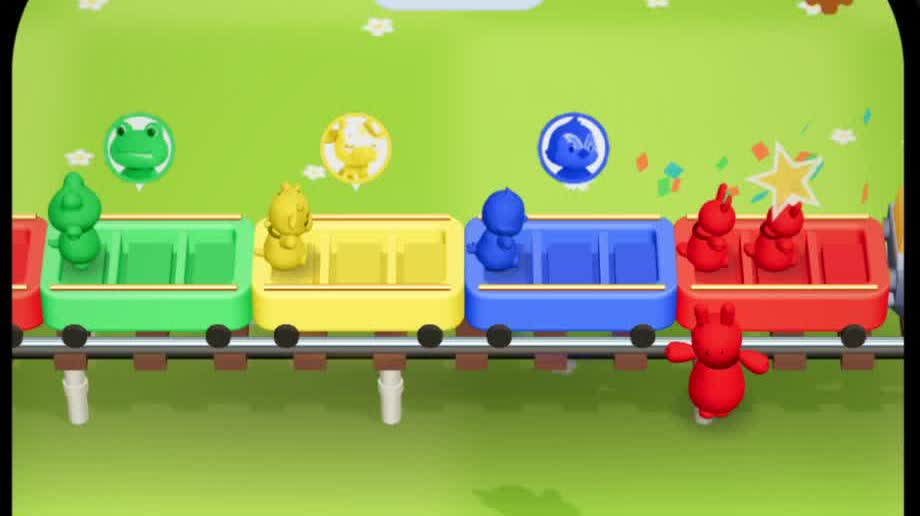
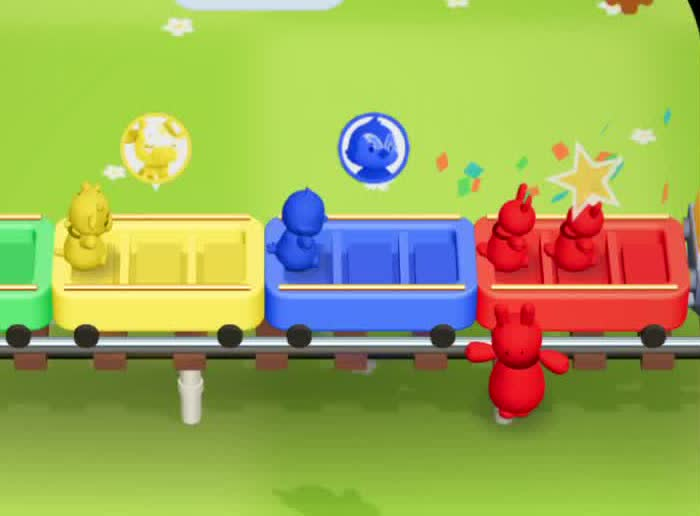
Remove em dashes site-wide, bump to 5+ years, fix Animal Park crop
- Replaced every em dash across Hero, WorkShowcase, agentic skills
  data, and project descriptions with colons, periods, semicolons,
  or parentheses depending on context (including two pre-existing
  ones in Grid Filler/Dominoes Logic).
- "4+ years" -> "5+ years" in Hero and Experience (career actually
  spans Oct 2020-present, so this is also more accurate, not just a
  bump).
- Animal Park's cover image still clipped the rightmost cart when
  cropped to the narrower mobile card aspect. Re-cropped to 3 fully-
  visible carts with safe margin on both edges, verified against both
  the mobile-card (~1.37:1) and marquee (16:9) crop windows. Color
  Water Trip and Planetation were already safe at both aspects.

diff --git a/src/data/projectsData.ts b/src/data/projectsData.ts
@@ -106,7 +106,7 @@ The game features a killstreak system similar to Call of Duty, but themed around
       "Optimized grid performance and visual feedback",
       "Implemented spin-the-wheel reward system",
     ],
-    fullDescription: `Grid Filler is a clean logic puzzle where players divide grids into perfect rectangles, ensuring each section matches its number exactly. Simple rules, but every decision matters—one misplaced tile can block the entire board.
+    fullDescription: `Grid Filler is a clean logic puzzle where players divide grids into perfect rectangles, ensuring each section matches its number exactly. Simple rules, but every decision matters: one misplaced tile can block the entire board.
 
 Features 1000+ levels, daily puzzles, competitive leaderboards, and a satisfying reward system. The game focuses on training your brain through meaningful logic rather than random guessing.`,
     storeLinks: [
@@ -190,7 +190,7 @@ The game features a relaxing beach theme with smooth animations and cheerful vis
       "Integrated comprehensive analytics for player behavior tracking",
       "Maintained and updated the live title",
     ],
-    fullDescription: `Dominoes Logic is a clean number puzzle where players place domino tiles to match numbers and clear the board. Every move matters—think ahead to find smooth, elegant solutions.
+    fullDescription: `Dominoes Logic is a clean number puzzle where players place domino tiles to match numbers and clear the board. Every move matters: think ahead to find smooth, elegant solutions.
 
 Each level challenges you to read the grid, plan your moves, and fit the right tiles together. The game features a minimal design focused on satisfying puzzle-solving.`,
     storeLinks: [
@@ -312,7 +312,7 @@ Monster Mayhem is a cooperative PVE game where players fight hordes of zombies w
     title: "Animal Park",
     subtitle: "H5 Prototype → Live on Google Play",
     description:
-      "A color-sorting crowd puzzle — guide animal visitors onto matching train carts before the waiting carousel jams. Prototyped solo with the H5 Game Builder and Level Lab agent skills, then shipped to Google Play.",
+      "A color-sorting crowd puzzle: guide animal visitors onto matching train carts before the waiting carousel jams. Prototyped solo with the H5 Game Builder and Level Lab agent skills, then shipped to Google Play.",
     image: animalParkCover,
     tags: ["H5 Game Builder", "Level Lab", "Prototype", "Puzzle", "Published"],
     highlights: [
@@ -322,14 +322,14 @@ Monster Mayhem is a cooperative PVE game where players fight hordes of zombies w
       "Solo art, music & gameplay",
     ],
     myRole: [
-      "Designed, built, and shipped the entire game solo — every line of gameplay, all art, and all audio",
+      "Designed, built, and shipped the entire game solo: every line of gameplay, all art, and all audio",
       "Prototyped end-to-end using my own H5 Game Builder and Level Lab agent skills",
       "Took it from a one-line prompt to a playable build in a single rapid session",
       "Tuned the difficulty curve with Level Lab and shipped it live to Google Play",
     ],
-    fullDescription: `Animal Park is a color-sorting puzzle: cute animal visitors line up at the gates waiting to board a train, but each cart only accepts its matching color. Tap the gates to move animals forward — if the right cart isn't ready, they wait on a central carousel with limited seats. Fill the carousel with nowhere left to go, and it's a jam.
+    fullDescription: `Animal Park is a color-sorting puzzle: cute animal visitors line up at the gates waiting to board a train, but each cart only accepts its matching color. Tap the gates to move animals forward. If the right cart isn't ready, they wait on a central carousel with limited seats. Fill the carousel with nowhere left to go, and it's a jam.
 
-Every part of this game — gameplay, art, music, and sound — was built solo, as a rapid prototype using the H5 Game Builder and Level Lab skills I built myself. What started as a same-day prototype went on to become a fully shipped release on Google Play.`,
+Every part of this game (gameplay, art, music, and sound) was built solo, as a rapid prototype using the H5 Game Builder and Level Lab skills I built myself. What started as a same-day prototype went on to become a fully shipped release on Google Play.`,
     storeLinks: [
       { platform: "Google Play", url: "https://play.google.com/store/apps/details?id=com.pocketspark.animalpark&hl=en" },
     ],
@@ -339,7 +339,7 @@ Every part of this game — gameplay, art, music, and sound — was built solo, 
     title: "Color Water Trip",
     subtitle: "H5 Prototype • In Development",
     description:
-      "A color-matching river puzzle — steer boats of colored passengers along a winding waterway and dock each one at its matching color before the docks run out.",
+      "A color-matching river puzzle: steer boats of colored passengers along a winding waterway and dock each one at its matching color before the docks run out.",
     image: colorWaterTripCover,
     tags: ["H5 Game Builder", "Level Lab", "Prototype", "Puzzle", "In Development"],
     highlights: [
@@ -349,21 +349,21 @@ Every part of this game — gameplay, art, music, and sound — was built solo, 
       "Solo art, music & gameplay",
     ],
     myRole: [
-      "Designed and built the entire prototype solo — gameplay, art, and audio",
+      "Designed and built the entire prototype solo: gameplay, art, and audio",
       "Prototyped with my own H5 Game Builder and Level Lab agent skills",
       "Authored the level set and difficulty ramp using Level Lab's generator",
       "Currently in active development ahead of a planned release",
     ],
-    fullDescription: `Color Water Trip sends boats of colored passengers down a winding river. Guide each boat to the dock matching its passengers' color before space runs out — misjudge the routing and the river backs up fast.
+    fullDescription: `Color Water Trip sends boats of colored passengers down a winding river. Guide each boat to the dock matching its passengers' color before space runs out. Misjudge the routing and the river backs up fast.
 
-Built solo as a rapid H5 prototype — gameplay, art, and music all my own work — using the H5 Game Builder and Level Lab agent skills to go from concept to a playable build quickly. Still in active development.`,
+Built solo as a rapid H5 prototype (gameplay, art, and music all my own work) using the H5 Game Builder and Level Lab agent skills to go from concept to a playable build quickly. Still in active development.`,
     gallery: [colorWaterTrip1, colorWaterTrip2, colorWaterTrip3],
   },
   "planetation": {
     title: "Planetation",
     subtitle: "H5 Prototype • In Development",
     description:
-      "A tiny-planet driving game — race a car around the curved surface of a miniature world, weaving through village roads to the checkered flag.",
+      "A tiny-planet driving game: race a car around the curved surface of a miniature world, weaving through village roads to the checkered flag.",
     image: planetation1,
     tags: ["H5 Game Builder", "Level Lab", "Prototype", "Racing", "In Development"],
     highlights: [
@@ -373,14 +373,14 @@ Built solo as a rapid H5 prototype — gameplay, art, and music all my own work 
       "Solo art, music & gameplay",
     ],
     myRole: [
-      "Designed and built the entire prototype solo — gameplay, art, and audio",
+      "Designed and built the entire prototype solo: gameplay, art, and audio",
       "Prototyped with my own H5 Game Builder and Level Lab agent skills",
       "Built the course/level progression using Level Lab",
       "Currently in active development ahead of a planned release",
     ],
-    fullDescription: `Planetation is a driving game set on tiny, fully-navigable planets — steer a car around the curved surface of a miniature world, past houses and trees, chasing the checkered flag along winding village roads.
+    fullDescription: `Planetation is a driving game set on tiny, fully-navigable planets: steer a car around the curved surface of a miniature world, past houses and trees, chasing the checkered flag along winding village roads.
 
-Built solo as a rapid H5 prototype — gameplay, art, and music all my own work — using the H5 Game Builder and Level Lab agent skills. Still in active development.`,
+Built solo as a rapid H5 prototype (gameplay, art, and music all my own work) using the H5 Game Builder and Level Lab agent skills. Still in active development.`,
     gallery: [planetation1, planetation2, planetation3],
   },
 };

diff --git a/src/data/agenticSkillsData.ts b/src/data/agenticSkillsData.ts
@@ -19,7 +19,7 @@ export const agenticSkills: AgenticSkill[] = [
     title: "H5 Game Builder",
     tagline: "Prompt in, playable game out",
     description:
-      "Turns a one-line prompt into a mobile-first HTML5 game — a single .html file with 2D Phaser or 3D Three.js gameplay, art, audio, and levels. Every build is gated by a lint pass and a browser QA harness before it ships.",
+      "Turns a one-line prompt into a mobile-first HTML5 game: a single .html file with 2D Phaser or 3D Three.js gameplay, art, audio, and levels. Every build is gated by a lint pass and a browser QA harness before it ships.",
     tags: ["Claude Code", "Cursor", "Copilot CLI", "Phaser", "Three.js"],
     color: "neon-cyan",
     githubUrl: "https://github.com/KrushnaChaudhary/h5-game-builder-skill",
@@ -32,7 +32,7 @@ export const agenticSkills: AgenticSkill[] = [
     title: "Level Lab",
     tagline: "Any H5 game, real levels",
     description:
-      "Adds a level generator and an in-browser level editor to any single-file HTML5 game — a difficulty-ramped level set, per-level hand editing with live validity checks, and JSON/ZIP import-export.",
+      "Adds a level generator and an in-browser level editor to any single-file HTML5 game: a difficulty-ramped level set, per-level hand editing with live validity checks, and JSON/ZIP import-export.",
     tags: ["Claude Code", "Cursor", "Copilot CLI", "Level Design"],
     color: "neon-purple",
     githubUrl: "https://github.com/KrushnaChaudhary/level-lab-skill",

diff --git a/src/components/Hero.tsx b/src/components/Hero.tsx
@@ -70,7 +70,7 @@ const Hero = () => {
             animate={{ opacity: 1 }}
             transition={{ delay: 0.6 }}
           >
-            4+ years shipping mobile games — <span className="text-neon-cyan">gameplay programming</span>,{" "}
+            5+ years shipping mobile games: <span className="text-neon-cyan">gameplay programming</span>,{" "}
             <span className="text-neon-purple">AI systems</span>, and{" "}
             <span className="text-neon-gold">designer-friendly architecture</span> across a dozen+ titles.
             Lately I've also been building{" "}

diff --git a/src/components/WorkShowcase.tsx b/src/components/WorkShowcase.tsx
@@ -15,7 +15,7 @@ const tabCopy: Record<Tab, { eyebrow: string; accent: string; sub: string }> = {
   skills: {
     eyebrow: "AGENTIC",
     accent: "SKILLS",
-    sub: "Installable AI agent skills I've built and published — for Claude Code, Cursor, and GitHub Copilot CLI",
+    sub: "Installable AI agent skills I've built and published for Claude Code, Cursor, and GitHub Copilot CLI",
   },
 };
 

diff --git a/src/components/Experience.tsx b/src/components/Experience.tsx
@@ -63,7 +63,7 @@ const Experience = () => {
             <span className="text-neon-gold">EXPERIENCE</span>
           </h2>
           <p className="text-muted-foreground max-w-xl mx-auto">
-            4+ years of professional game development
+            5+ years of professional game development
           </p>
         </motion.div>
 
